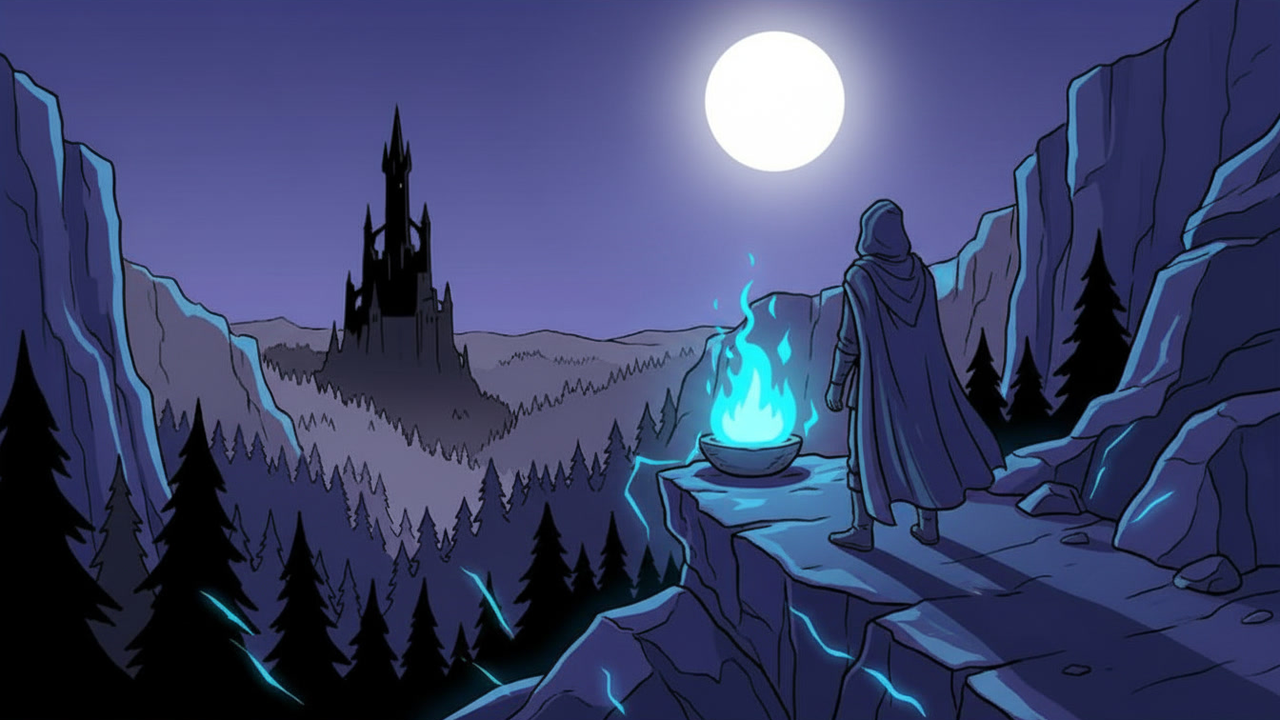
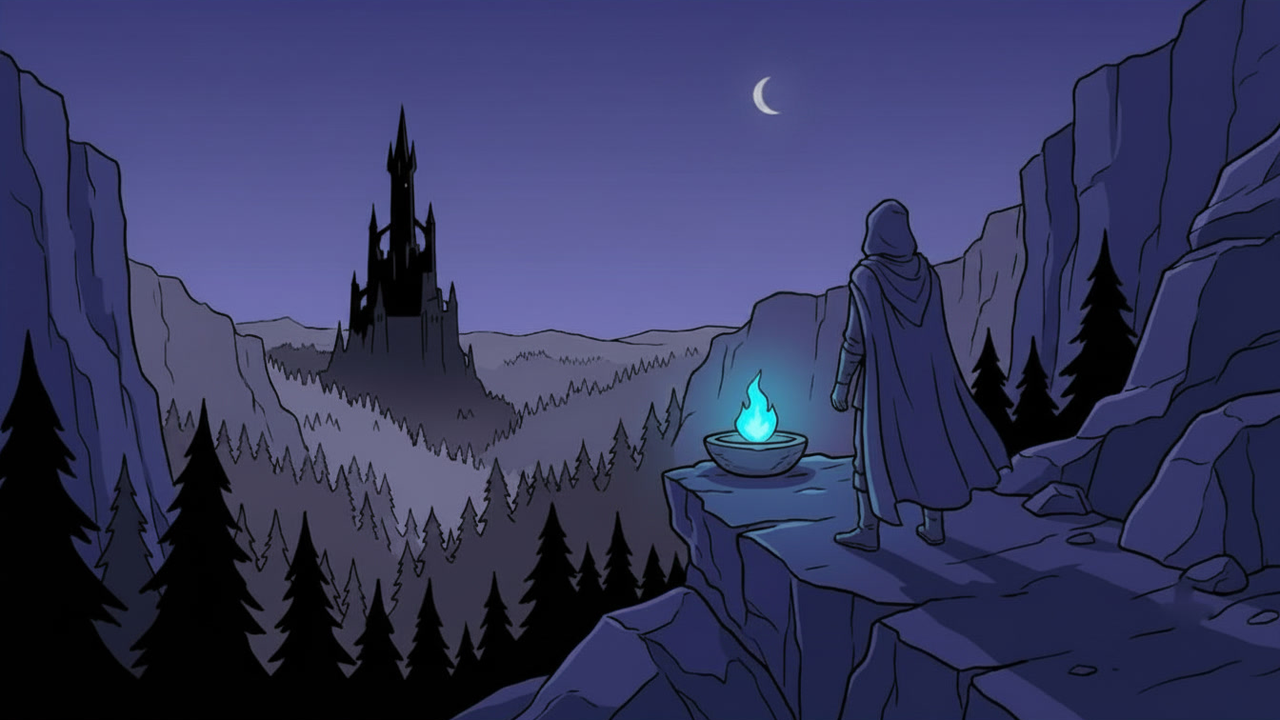
Dull the title moon, and keep the measurement that asked for it
Second roll of the same painting. The full white moon is a crescent now, so the
share of the frame over 0.90 luminance drops 1.839% -> 0.002% — a hundredth of
bg_crypt, and the brightest pixel is the cyan flame at 0.905 instead of a clipped
1.0 sky. That is the manifest row's "moonless, or a moon kept small and dulled"
satisfied natively, with no grade applied and no REDO line.

Colour reach 94.9% -> 99.9%, menu-column contrast 6.1 -> 7.6:1, green still 0.3%,
mean luminance 0.229. Corner is clean, so no sparkle strip. D171 rewritten to
carry both attempts, because the number that caught it is in no test.

Claude-Session: https://claude.ai/code/session_0156fhimMu4TTn2F3A25Sbwn

diff --git a/DESIGN.md b/DESIGN.md
@@ -10175,56 +10175,68 @@ directories in it. Worth writing down: `ANDROID_HOME` alone did NOT satisfy the 
 contrary to what the `build-android` comment says about the CI runner; it wanted the editor
 settings.
 
-### D171 — A new title painting, installed rather than dropped in, and one line of the bible it breaks
+### D171 — A new title painting, and the moon that the "nothing pure white" line caught
 
-A re-roll of the title backdrop arrived as `main_menu.jpg`, 1344x768: a hooded figure at a
-cyan brazier on a cliff ledge, the black fortress small and far off across the valley, and a
-large white moon above.
+Two re-rolls of the title backdrop, both `main_menu.jpg` at 1344x768: a hooded figure at a
+cyan brazier on a cliff ledge, the black fortress small and far off across a valley of firs.
+The second one is what is on disk. The first is why there was a second, and it is the useful
+half of this entry.
 
-**It went in through `install_scene_backdrops.gd`, not by hand**, which is the route D114
+**Both went in through `install_scene_backdrops.gd`, not by hand**, which is the route D114
 built for exactly this and the first thing `assets/art/README.md` asks for. 1344x768 is 1.75
 and the game is 1.78, so a straight resize to 1280x720 stretches the figure by 2%; the
 installer crops to aspect instead, losing six rows off the top and six off the bottom. No
-letterbox was found, so nothing was stripped. `SUPERSEDES` had nothing to delete — the `.jpg`
-has been gone since D114 — and `PixelArt.title_art_path()` meant no call site moved.
+letterbox in either, so nothing was stripped. `SUPERSEDES` had nothing to delete — the `.jpg`
+has been gone since D114 — and `PixelArt.title_art_path()` meant no call site moved for either.
 
-**The watermark, which is the first thing to check on this file.** D163 had to invent a
+**No watermark, which is the first thing to check on this file.** D163 had to invent a
 single-image mode for `strip_sparkle.gd` to get the generator's four-point star off the
-previous painting. This one has none: the bottom-right 280x240 window the tool measures in is
-bare rock, a shadow and a shadow boundary at 3x, with no compact lit blob in it. Nothing to
-strip, so nothing was.
+previous painting. Neither of these has one: the bottom-right 280x240 window the tool measures
+in is bare rock, shadow and a shadow boundary at 3x, with no compact lit blob in it.
 
-**Legibility, which is the second.** `tests/MenuArtTest.tscn` measures worst-pixel contrast
-for white text across the left 40% under the 0.82 scrim and reports **6.1:1** against its 4.5
-floor. Not luck: the composition puts the subject right of centre and leaves cliff face and
-treeline under the buttons, which is what the manifest row for this file has asked for since
-it was written.
+**The palette tests this file has failed twice, re-measured against the reference attached to
+every request.** Sampling every second pixel; green is `regrade.gd`'s 70-160° band above
+s=0.18, sat-in-light and colour reach are over pixels at luminance ≥ 0.25. This method
+reproduces D134's `bg_crypt` figure (0.540 against its 0.535), which is what makes these
+numbers comparable to the ones recorded there:
 
-**The palette tests this file has failed twice, re-measured against `bg_crypt.png`** (the
-reference attached to every request), sampling every second pixel — green is `regrade.gd`'s
-70-160° band above s=0.18, sat-in-light and colour reach are over pixels at luminance ≥ 0.25:
+                    green   sat-in-light   colour reach   mean lum    >0.90
+    attempt 1        0.3%          0.407          94.9%      0.270   1.839%
+    attempt 2        0.3%          0.403          99.9%      0.229   0.002%
+    bg_crypt.png     0.0%          0.540          99.9%      0.168   0.202%
+    bg_ossuary.png   0.0%          0.330          92.1%      0.226   0.028%
 
-    main_menu.png   green 0.3%   sat-in-light 0.407   colour reach 94.9%   mean lum 0.270
-    bg_crypt.png    green 0.0%   sat-in-light 0.540   colour reach 99.9%   mean lum 0.168
+D134's pair — green under 1% AND saturation near 0.45 — holds in both, and both sit inside the
+bible's 20-35% luminance band. This is a painted violet night, not the neutral grey one that
+failed in D134 and not the green valley that failed before it.
 
-D134's pair of tests — green under 1% AND saturation near 0.45 — both hold, and mean
-luminance is inside the bible's 20-35% band. This is a painted violet night, not the neutral
-grey one that failed in D134 and not the green valley that failed before it.
+**The column that gets sat on measures 6.1:1 then 7.6:1**, from `tests/MenuArtTest.tscn`'s
+worst-pixel contrast for white text across the left 40% under the 0.82 scrim, against its 4.5
+floor. Not luck either time: the composition puts the subject right of centre and leaves cliff
+face and treeline under the buttons, which is what the manifest row has asked for since it was
+written.
 
-**What it does break: "nothing pure white".** The moon is a clipped 1.0 and **1.84% of the
-frame is over 0.90 luminance**, against 0.20% for `bg_crypt`, 0.03% for `bg_ossuary` and
-0.00% for `bg_foundry` — and against 0.029% for the painting this replaces (D122). The
-manifest row asks in as many words for "moonless, or a moon kept small and dulled: nothing in
-the frame reads as pure white", and the style preamble's VALUE line says the same. This one
-has a moon as its brightest object by a wide margin.
+**What the last column caught.** Attempt 1 had a full white moon — a clipped 1.0, brightest
+object in the frame by a wide margin, and **1.84% of the frame over 0.90 luminance** against
+0.20% for `bg_crypt` and 0.029% for the painting it replaced (D122). The manifest row asks in
+as many words for *"moonless, or a moon kept small and dulled: nothing in the frame reads as
+pure white"*, and the style preamble's VALUE line says the same. It was installed anyway and
+recorded as a breach rather than a defect, on the argument that the white landed at 62% width
+and 5% height — clear of the scrim and of every text rect — so the rule's actual purpose, a
+backdrop not bleaching the interface over it, was not violated.
 
-It was installed anyway, and the reason is where the white lands rather than how much of it
-there is. The moon sits at 62% width and 5% height — outside the scrimmed menu column,
-outside every text rect on the screen, and behind the logo plate's empty middle rather than
-under it. The rule exists so that a backdrop cannot bleach the interface drawn on top of it,
-and the measurement that speaks to that is the 6.1:1 above. Recorded here rather than fixed
-because it is a composition choice, not a defect: the file is not on `art_manifest.gd`'s
-`REDO` list, and if the bright moon is unwanted, that list is where it goes.
+Attempt 2 dulled the moon to a small crescent and that argument is moot: **0.002% over 0.90**,
+a tenth of `bg_ossuary` and a hundredth of `bg_crypt`. The brightest pixel in the painting is
+now the cyan flame at 0.905 — the one saturated light source the preamble asks for, and the
+thing that ought to be brightest. Colour reach went 94.9% → 99.9% and contrast 6.1 → 7.6:1 in
+the same step.
+
+**Worth keeping: saying the number was the whole fix.** Nothing was patched and no grade was
+applied — contrast D134, which hue-remapped the installed file in place and then said itself
+that the brief, not the grade, was the durable fix. No `REDO` line was needed either. One
+measurement, stated with the rule it broke, and the next roll came back inside the rule.
+`>0.90` as a share of the frame is the number that carries "nothing pure white"; it is in no
+test, and on this evidence it catches what mean luminance and saturation cannot.
 
 ### D172 — A lock the player can see from the doorway, and a key count that stopped guessing
 
